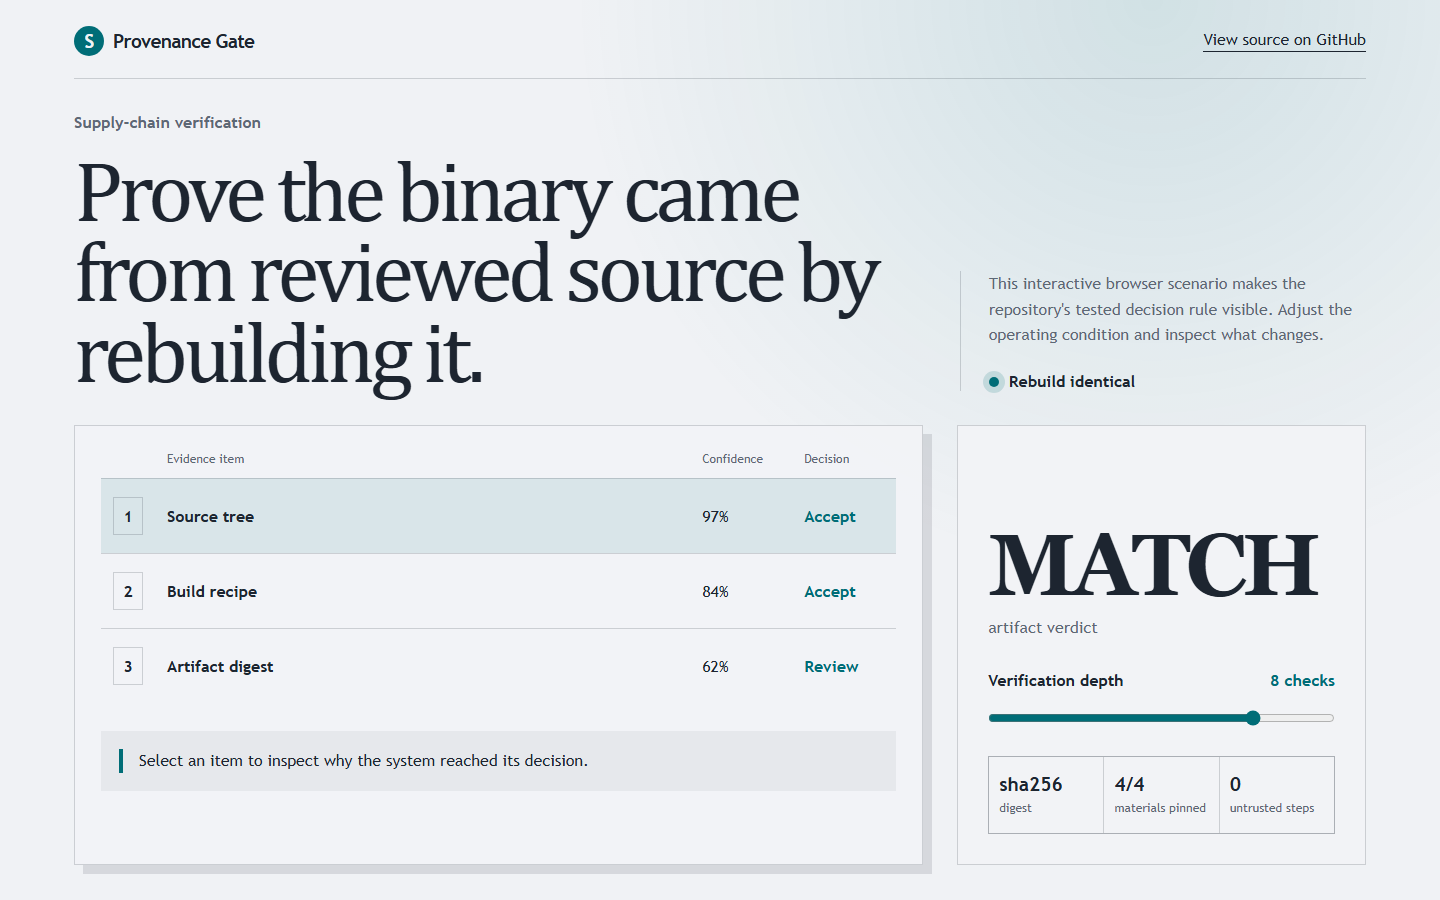
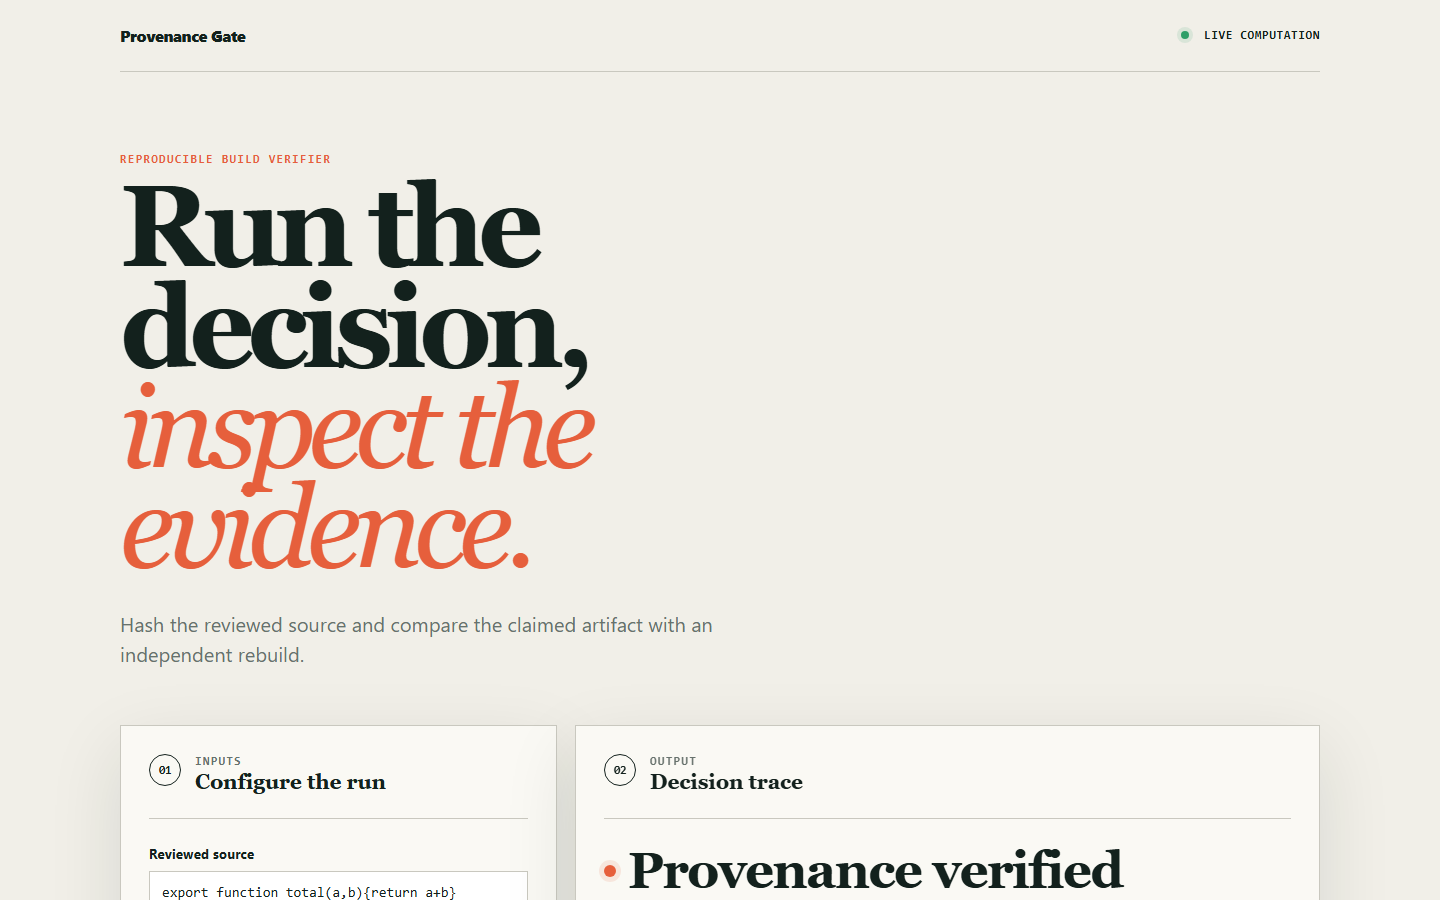
docs: show working deployed application

diff --git a/README.md b/README.md
@@ -6,9 +6,9 @@
 
 [![CI and deployment](https://github.com/SlateGitOrg/provenance-gate/actions/workflows/ci.yml/badge.svg?branch=main)](https://github.com/SlateGitOrg/provenance-gate/actions/workflows/ci.yml)
 
-[Open the interactive Provenance Gate demo](https://slategitorg.github.io/provenance-gate/)
+[Open the working Provenance Gate application](https://slategitorg.github.io/provenance-gate/)
 
-The deployed interface uses a deterministic offline scenario to make the repository's tested decision rule visible without external services or private data.
+This deployed application runs the project's decision workflow in the browser. Change the inputs, run the analysis, and inspect the computed metrics and decision trace.
 
 ### Desktop
 
